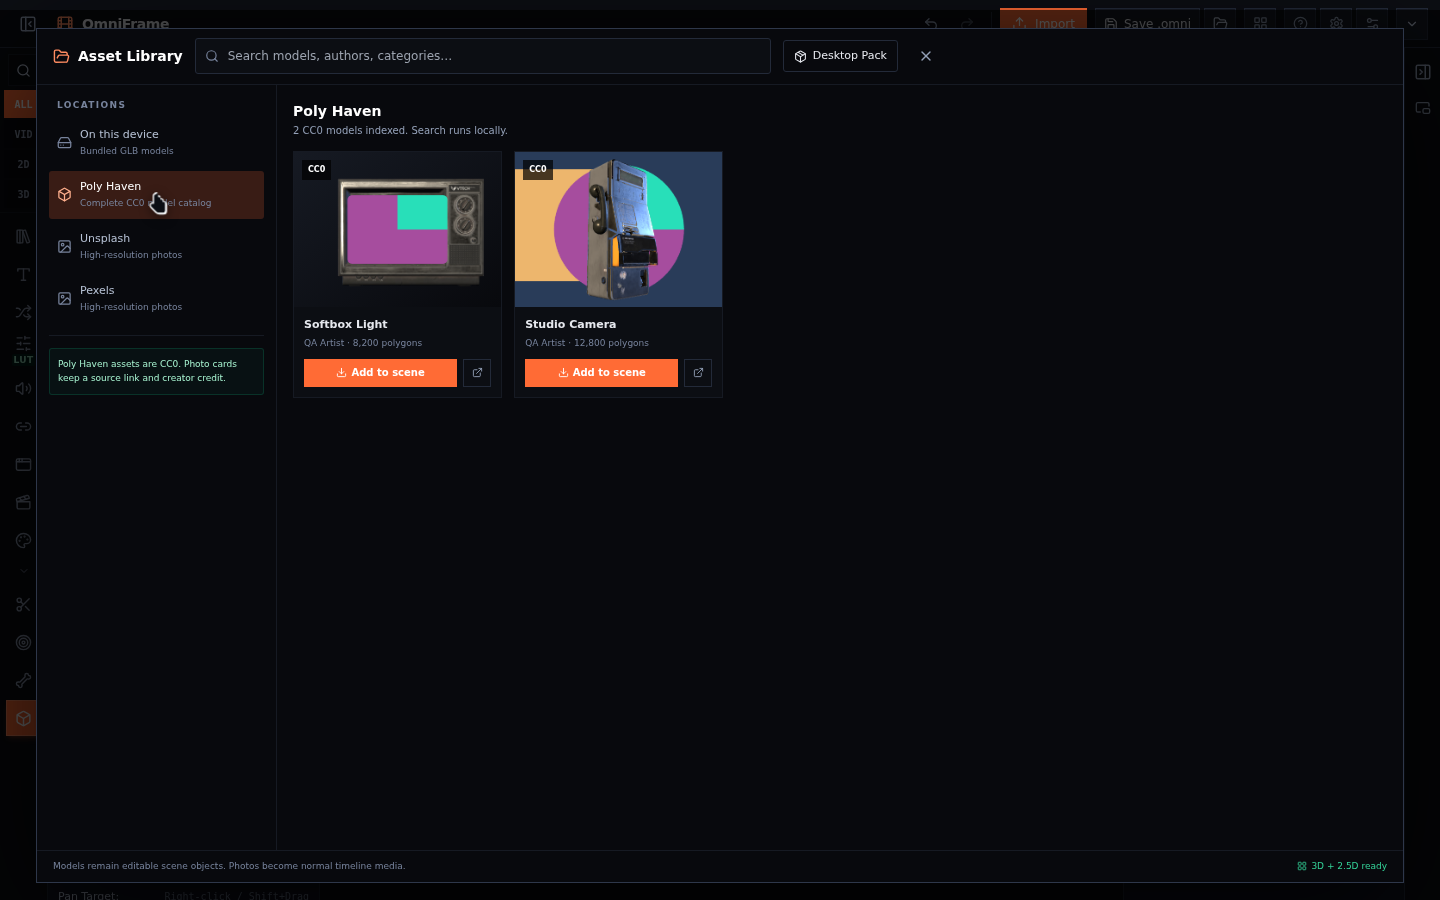
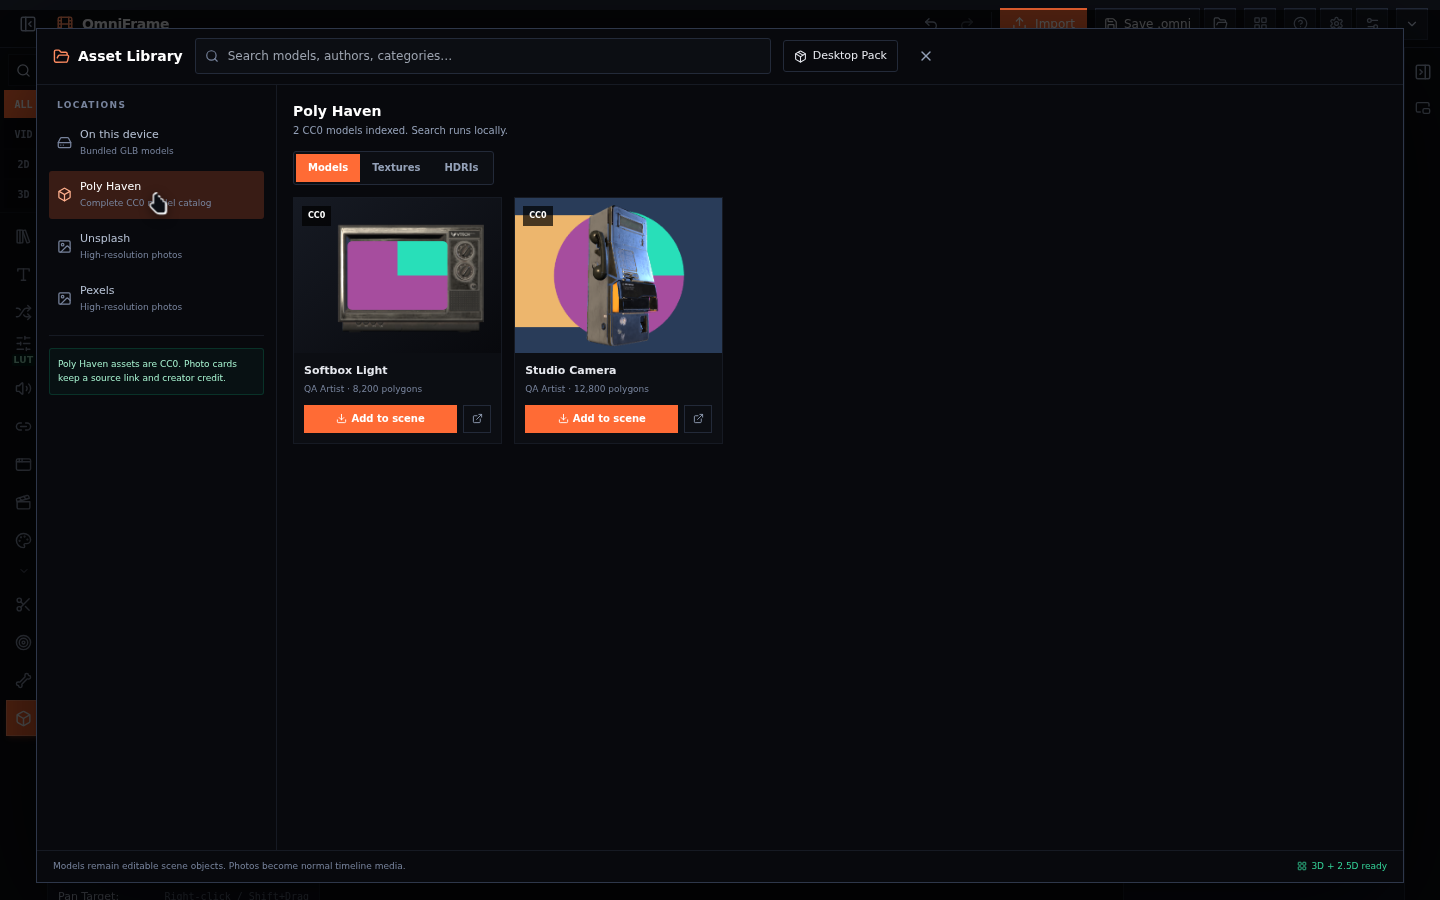
Cover Poly Haven textures and HDRIs

Changed region(s): [[0.1875, 0.1556, 0.5, 0.4978]]

diff --git a/src/components/AssetLibraryModal.tsx b/src/components/AssetLibraryModal.tsx
@@ -7,12 +7,14 @@ import {
   getStockProviderKey,
   LOCAL_LIBRARY_MODELS,
   resolvePolyHavenModelUrl,
+  resolvePolyHavenImageUrl,
   searchStockImages,
   setStockProviderKey,
   type AssetLibrarySource,
   type LibraryModel,
   type StockImageResult,
   type StockProvider,
+  type PolyHavenKind,
 } from '../lib/assetLibrary'
 
 const SOURCES: Array<{ id: AssetLibrarySource; label: string; note: string; icon: typeof Box }> = [
@@ -65,10 +67,28 @@ async function addStockImageToTimeline(result: StockImageResult): Promise<void> 
   state.addClipToTrack(trackId, assetId, state.playhead)
 }
 
+async function addPolyHavenImageToTimeline(asset: LibraryModel, url: string): Promise<void> {
+  const response = await fetch(url)
+  if (!response.ok) throw new Error(`The Poly Haven ${asset.kind} could not be downloaded (${response.status}).`)
+  const blob = await response.blob()
+  const objectUrl = URL.createObjectURL(blob)
+  const dimensions = await new Promise<{ width: number; height: number }>((resolve) => {
+    const image = new window.Image()
+    image.onload = () => resolve({ width: image.naturalWidth || asset.maxResolution || 4096, height: image.naturalHeight || asset.maxResolution || 4096 })
+    image.onerror = () => resolve({ width: asset.maxResolution || 4096, height: asset.kind === 'hdri' ? Math.round((asset.maxResolution || 4096) / 2) : asset.maxResolution || 4096 })
+    image.src = objectUrl
+  })
+  const state = useEditor.getState()
+  const assetId = `polyhaven-${asset.kind}-${asset.id}-${Date.now().toString(36)}`
+  state.addAsset({ id: assetId, name: asset.name, kind: 'image', url: objectUrl, duration: 5, width: dimensions.width, height: dimensions.height, size: blob.size, thumbnail: asset.thumbnail, sourceUrl: asset.sourceUrl, attribution: `${asset.author} / Poly Haven · CC0` })
+  state.addClipToTrack(state.createTrack('video'), assetId, state.playhead)
+}
+
 export function AssetLibraryModal({ open, onClose, onOpenPackBrowser }: { open: boolean; onClose: () => void; onOpenPackBrowser?: () => void }) {
   const [source, setSource] = useState<AssetLibrarySource>('local')
   const [query, setQuery] = useState('')
-  const [polyModels, setPolyModels] = useState<LibraryModel[]>([])
+  const [polyKind, setPolyKind] = useState<PolyHavenKind>('model')
+  const [polyAssets, setPolyAssets] = useState<Partial<Record<PolyHavenKind, LibraryModel[]>>>({})
   const [stockResults, setStockResults] = useState<StockImageResult[]>([])
   const [apiKeys, setApiKeys] = useState<Record<StockProvider, string>>(() => ({
     unsplash: getStockProviderKey('unsplash') || String(import.meta.env.VITE_UNSPLASH_API_KEY || ''),
@@ -80,20 +100,21 @@ export function AssetLibraryModal({ open, onClose, onOpenPackBrowser }: { open: 
   const [addedId, setAddedId] = useState<string | null>(null)
 
   useEffect(() => {
-    if (!open || source !== 'polyhaven' || polyModels.length) return
+    if (!open || source !== 'polyhaven' || polyAssets[polyKind]?.length) return
     let cancelled = false
     setLoading(true)
-    setStatus('Indexing the complete Poly Haven model catalog…')
-    fetchPolyHavenModels()
+    setStatus(`Indexing the complete Poly Haven ${polyKind === 'model' ? 'model' : polyKind === 'texture' ? 'texture' : 'HDRI'} catalog…`)
+    fetchPolyHavenModels(polyKind)
       .then((models) => {
         if (cancelled) return
-        setPolyModels(models)
-        setStatus(`${models.length.toLocaleString()} CC0 models indexed. Search runs locally.`)
+        setPolyAssets((catalogs) => ({ ...catalogs, [polyKind]: models }))
+        const noun = polyKind === 'hdri' ? (models.length === 1 ? 'HDRI' : 'HDRIs') : `${polyKind}${models.length === 1 ? '' : 's'}`
+        setStatus(`${models.length.toLocaleString()} CC0 ${noun} indexed. Search runs locally.`)
       })
       .catch((error) => { if (!cancelled) setStatus(error instanceof Error ? error.message : 'Poly Haven could not be reached.') })
       .finally(() => { if (!cancelled) setLoading(false) })
     return () => { cancelled = true }
-  }, [open, source, polyModels.length])
+  }, [open, source, polyKind, polyAssets])
 
   useEffect(() => {
     if (!open || (source !== 'unsplash' && source !== 'pexels')) return
@@ -128,7 +149,7 @@ export function AssetLibraryModal({ open, onClose, onOpenPackBrowser }: { open: 
     return () => window.removeEventListener('keydown', onKey)
   }, [open, onClose])
 
-  const models = source === 'local' ? LOCAL_LIBRARY_MODELS : polyModels
+  const models = source === 'local' ? LOCAL_LIBRARY_MODELS : polyAssets[polyKind] || []
   const visibleModels = useMemo(() => {
     const needle = query.trim().toLowerCase()
     const matched = needle ? models.filter((item) => `${item.name} ${item.description} ${item.categories.join(' ')} ${item.author}`.toLowerCase().includes(needle)) : models
@@ -142,10 +163,15 @@ export function AssetLibraryModal({ open, onClose, onOpenPackBrowser }: { open: 
     setBusyId(model.id)
     setStatus(model.modelUrl ? `Adding ${model.name}…` : `Resolving ${model.name} from Poly Haven…`)
     try {
-      const url = model.modelUrl || await resolvePolyHavenModelUrl(model.id)
-      addModelToScene(model, url)
+      if (source === 'polyhaven' && model.kind && model.kind !== 'model') {
+        const url = await resolvePolyHavenImageUrl(model.id, model.kind)
+        await addPolyHavenImageToTimeline(model, url)
+      } else {
+        const url = model.modelUrl || await resolvePolyHavenModelUrl(model.id)
+        addModelToScene(model, url)
+      }
       setAddedId(model.id)
-      setStatus(`${model.name} added to the 3D scene. Select the 3D tab to place and animate it.`)
+      setStatus(model.kind && model.kind !== 'model' ? `${model.name} imported as editable 2.5D timeline media.` : `${model.name} added to the 3D scene. Select the 3D tab to place and animate it.`)
     } catch (error) {
       setStatus(error instanceof Error ? error.message : 'This model could not be added.')
     } finally {
@@ -208,6 +234,8 @@ export function AssetLibraryModal({ open, onClose, onOpenPackBrowser }: { open: 
               {loading && <Loader2 size={17} className="animate-spin text-brand-300" aria-label="Loading" />}
             </div>
 
+            {source === 'polyhaven' && <div className="mb-3 flex w-fit rounded-md border border-ink-700 bg-ink-900 p-0.5" role="tablist" aria-label="Poly Haven asset type">{(['model', 'texture', 'hdri'] as const).map((kind) => <button key={kind} type="button" role="tab" aria-selected={polyKind === kind} data-testid={`asset-library-poly-${kind}`} onClick={() => { setPolyKind(kind); setAddedId(null) }} className={`h-7 rounded px-3 text-[10px] font-semibold ${polyKind === kind ? 'bg-brand text-white' : 'text-ink-400 hover:text-white'}`}>{kind === 'model' ? 'Models' : kind === 'texture' ? 'Textures' : 'HDRIs'}</button>)}</div>}
+
             {!isStock ? (
               <div className="grid grid-cols-[repeat(auto-fill,minmax(175px,1fr))] gap-3" data-testid="asset-library-model-grid">
                 {visibleModels.map((model) => (
@@ -217,7 +245,7 @@ export function AssetLibraryModal({ open, onClose, onOpenPackBrowser }: { open: 
                       <span className="absolute left-2 top-2 rounded bg-black/70 px-1.5 py-0.5 text-[8px] font-semibold text-white">{model.license}</span>
                     </div>
                     <div className="p-2.5"><h3 className="truncate text-[11px] font-semibold text-ink-100" title={model.name}>{model.name}</h3><p className="mt-0.5 truncate text-[9px] text-ink-500">{model.author}{model.polycount ? ` · ${model.polycount.toLocaleString()} polygons` : ''}</p>
-                      <div className="mt-2 flex gap-1.5"><button type="button" data-testid={`asset-library-add-${model.id.replace(/[^a-z0-9]+/gi, '-')}`} disabled={!!busyId} onClick={() => void importModel(model)} className="flex h-7 flex-1 items-center justify-center gap-1 rounded bg-brand text-[10px] font-semibold text-white hover:bg-brand/85 disabled:opacity-50">{busyId === model.id ? <Loader2 size={11} className="animate-spin" /> : addedId === model.id ? <Check size={11} /> : <Download size={11} />}{addedId === model.id ? 'Added' : 'Add to scene'}</button><a href={model.sourceUrl} target="_blank" rel="noreferrer" aria-label={`Open source for ${model.name}`} className="grid h-7 w-7 place-items-center rounded border border-ink-700 text-ink-400 hover:text-white"><ExternalLink size={11} /></a></div>
+                      <div className="mt-2 flex gap-1.5"><button type="button" data-testid={`asset-library-add-${model.id.replace(/[^a-z0-9]+/gi, '-')}`} disabled={!!busyId} onClick={() => void importModel(model)} className="flex h-7 flex-1 items-center justify-center gap-1 rounded bg-brand text-[10px] font-semibold text-white hover:bg-brand/85 disabled:opacity-50">{busyId === model.id ? <Loader2 size={11} className="animate-spin" /> : addedId === model.id ? <Check size={11} /> : <Download size={11} />}{addedId === model.id ? 'Added' : model.kind && model.kind !== 'model' ? 'Add as 2.5D' : 'Add to scene'}</button><a href={model.sourceUrl} target="_blank" rel="noreferrer" aria-label={`Open source for ${model.name}`} className="grid h-7 w-7 place-items-center rounded border border-ink-700 text-ink-400 hover:text-white"><ExternalLink size={11} /></a></div>
                     </div>
                   </article>
                 ))}

diff --git a/src/lib/assetLibrary.ts b/src/lib/assetLibrary.ts
@@ -15,7 +15,10 @@ export interface LibraryModel {
   categories: string[]
   polycount?: number
   maxResolution?: number
+  kind?: PolyHavenKind
 }
+
+export type PolyHavenKind = 'model' | 'texture' | 'hdri'
 
 export interface StockImageResult {
   id: string
@@ -83,12 +86,14 @@ type PolyHavenAssetRecord = {
   thumbnail_url?: string
 }
 
-let polyHavenCatalogPromise: Promise<LibraryModel[]> | null = null
+const polyHavenCatalogPromises = new Map<PolyHavenKind, Promise<LibraryModel[]>>()
 
 /** Load Poly Haven's complete model index once, then search locally without API keys. */
-export function fetchPolyHavenModels(): Promise<LibraryModel[]> {
-  if (!polyHavenCatalogPromise) {
-    polyHavenCatalogPromise = fetch('https://api.polyhaven.com/assets?t=models')
+export function fetchPolyHavenModels(kind: PolyHavenKind = 'model'): Promise<LibraryModel[]> {
+  let catalogPromise = polyHavenCatalogPromises.get(kind)
+  if (!catalogPromise) {
+    const endpointKind = kind === 'model' ? 'models' : kind === 'texture' ? 'textures' : 'hdris'
+    catalogPromise = fetch(`https://api.polyhaven.com/assets?t=${endpointKind}`)
       .then(async (response) => {
         if (!response.ok) throw new Error(`Poly Haven catalog failed (${response.status}).`)
         const data = await response.json() as Record<string, PolyHavenAssetRecord>
@@ -103,14 +108,16 @@ export function fetchPolyHavenModels(): Promise<LibraryModel[]> {
           categories: [...(item.categories || []), ...(item.tags || [])],
           polycount: item.polycount,
           maxResolution: item.max_resolution?.[0],
+          kind,
         })).sort((a, b) => a.name.localeCompare(b.name))
       })
       .catch((error) => {
-        polyHavenCatalogPromise = null
+        polyHavenCatalogPromises.delete(kind)
         throw error
       })
+    polyHavenCatalogPromises.set(kind, catalogPromise)
   }
-  return polyHavenCatalogPromise
+  return catalogPromise
 }
 
 type PolyHavenFile = { url?: string; size?: number }
@@ -126,6 +133,20 @@ export async function resolvePolyHavenModelUrl(id: string): Promise<string> {
     if (entry?.gltf?.url) return entry.gltf.url
   }
   throw new Error('This Poly Haven model has no browser-compatible GLTF file.')
+}
+
+/** Resolve a 4K browser image for a Poly Haven texture or a tone-mapped HDRI. */
+export async function resolvePolyHavenImageUrl(id: string, kind: Exclude<PolyHavenKind, 'model'>): Promise<string> {
+  const response = await fetch(`https://api.polyhaven.com/files/${encodeURIComponent(id)}`)
+  if (!response.ok) throw new Error(`Poly Haven file manifest failed (${response.status}).`)
+  const manifest = await response.json() as Record<string, any>
+  if (kind === 'hdri' && manifest.tonemapped?.url) return String(manifest.tonemapped.url)
+  for (const resolution of ['4k', '2k', '1k']) {
+    const diffuse = manifest.Diffuse?.[resolution]
+    if (diffuse?.jpg?.url) return String(diffuse.jpg.url)
+    if (diffuse?.png?.url) return String(diffuse.png.url)
+  }
+  throw new Error(`This Poly Haven ${kind} has no browser-compatible image file.`)
 }
 
 export async function searchStockImages(provider: StockProvider, query: string, apiKey: string): Promise<StockImageResult[]> {
